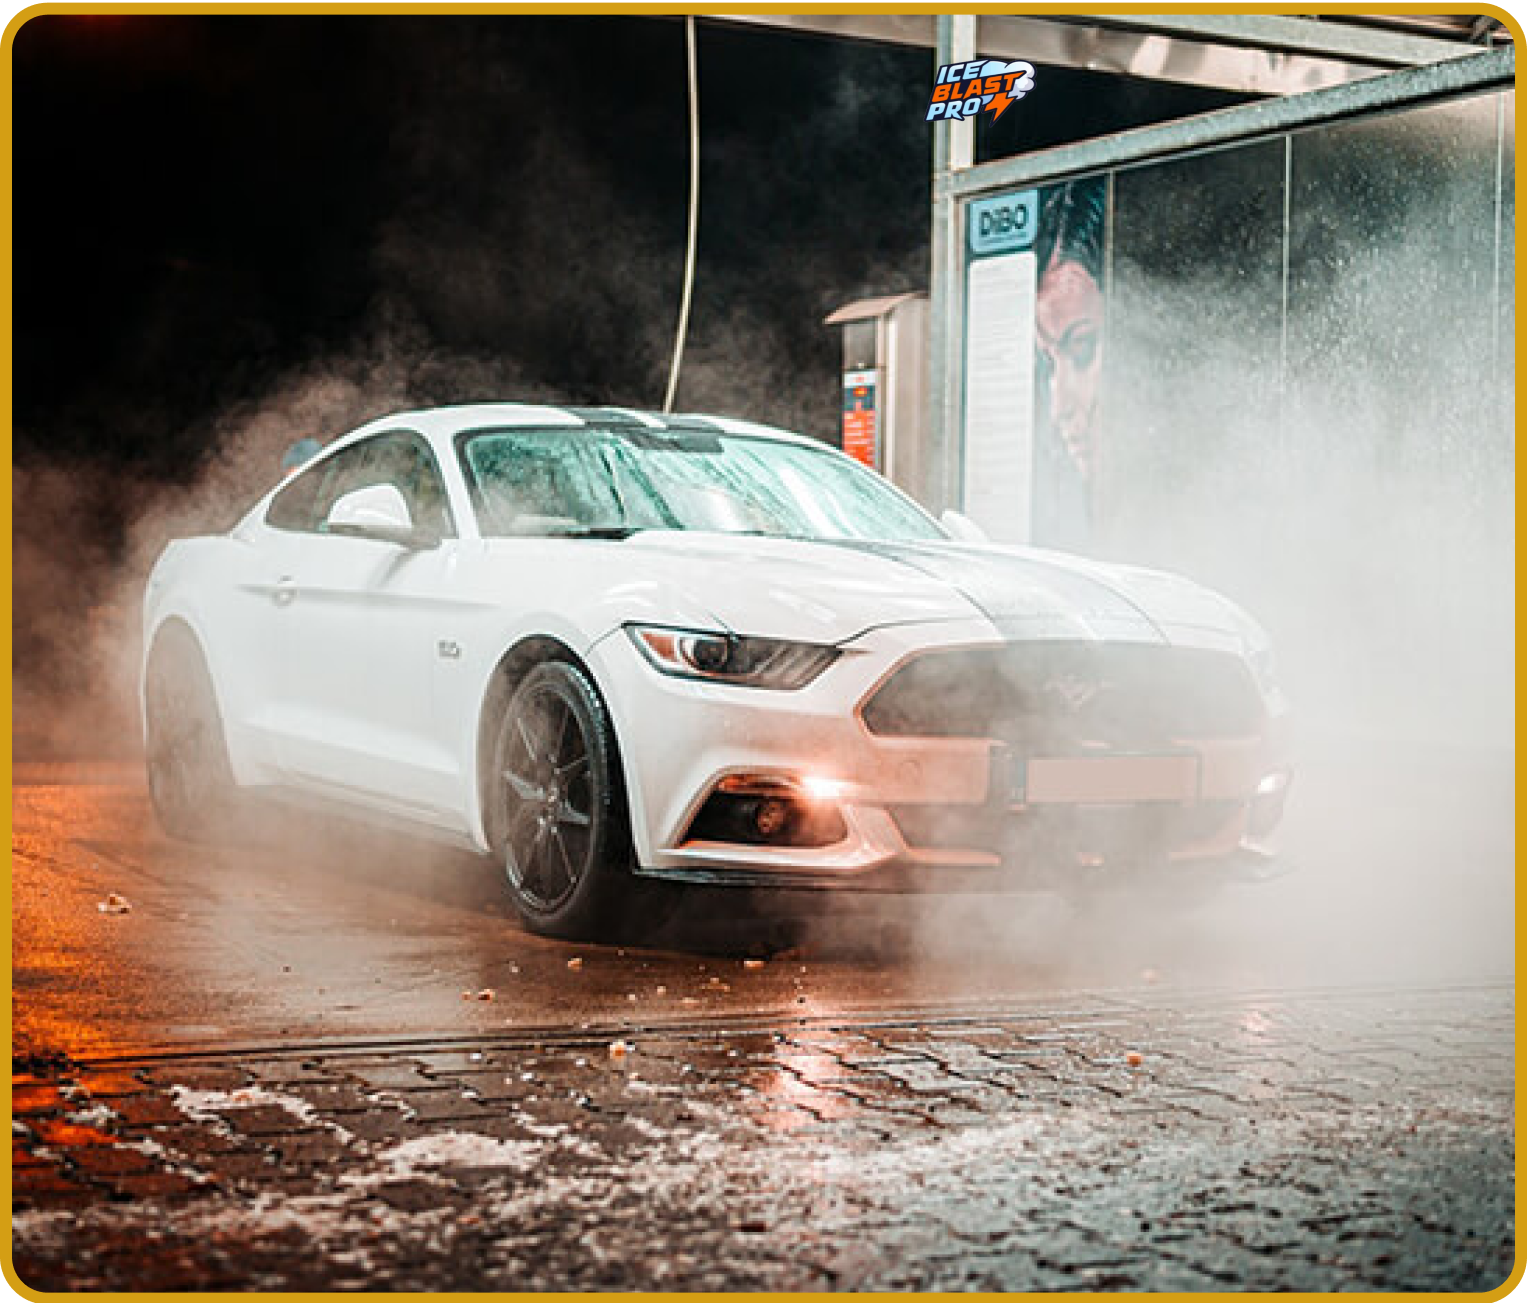
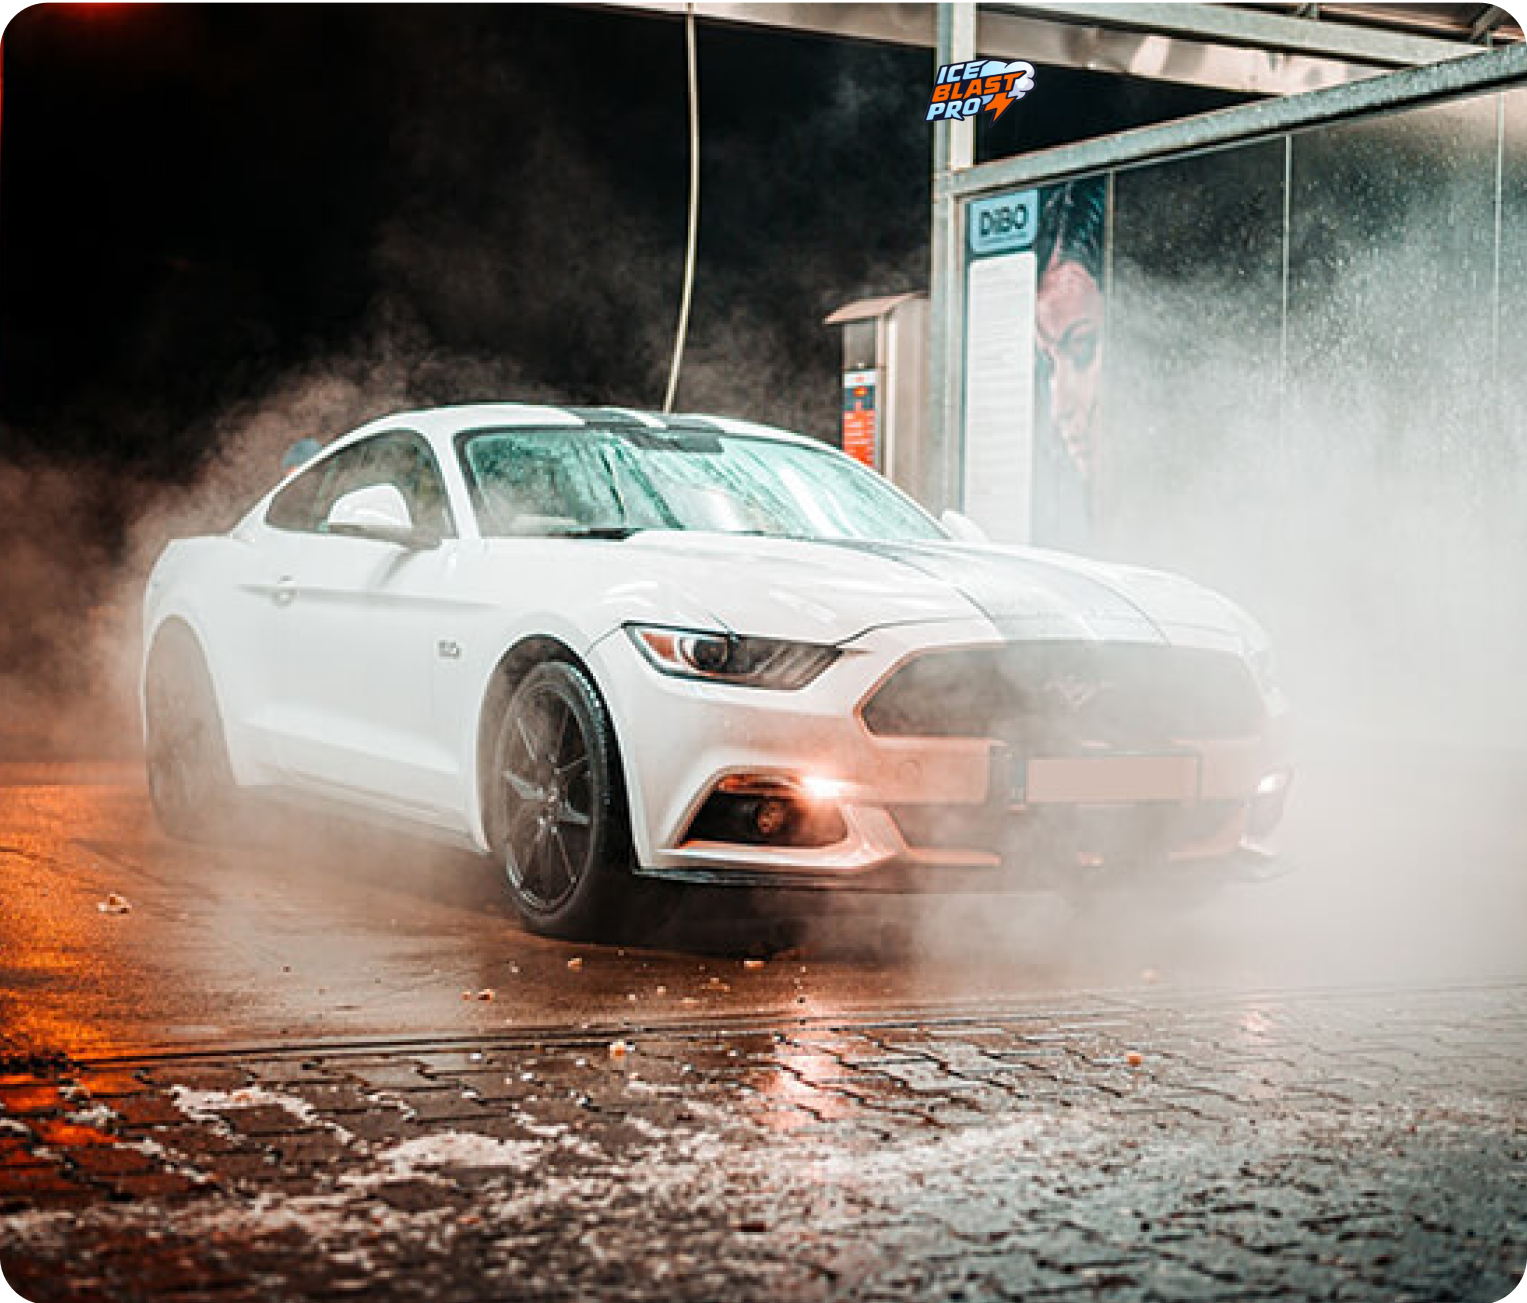
change the color in slick slider

Changed region(s): [[0.0, 0.0, 1.0, 1.0]]

diff --git a/index.html b/index.html
@@ -1355,7 +1355,6 @@
                         </div>
                         <div class="col-sm-4 col-6 d-flex align-items-start justify-content-start flex-column">
                             <p class="fm-acumin fw-700 fs-18 lh-27 text-white mb-3">Legal Information</p>
-                            <a href="#" class="fm-acumin fw-400 fs-16 lh-24 text-white opacity-70 footer-link">Home</a>
                             <a href="#"
                                 class="fm-acumin fw-400 fs-16 lh-24 text-white opacity-70 mt-footer-link footer-link">Terms
                                 of Service</a>

diff --git a/assets/CSS/style.css b/assets/CSS/style.css
@@ -456,7 +456,7 @@
     top: 0;
     left: 0;
     border-radius: 24px;
-    border: 3px solid #FA6A00;
+    border: 3px solid #D49E14;
 }
 
 .swiper {
@@ -475,9 +475,6 @@
     filter: none;
 }
 
-.gallery-slide.swiper-slide-active {
-    border: 3px solid #FA6A00 !important;
-}
 
 .gallery-slide.swiper-slide-active::after {
     background: transparent !important;
